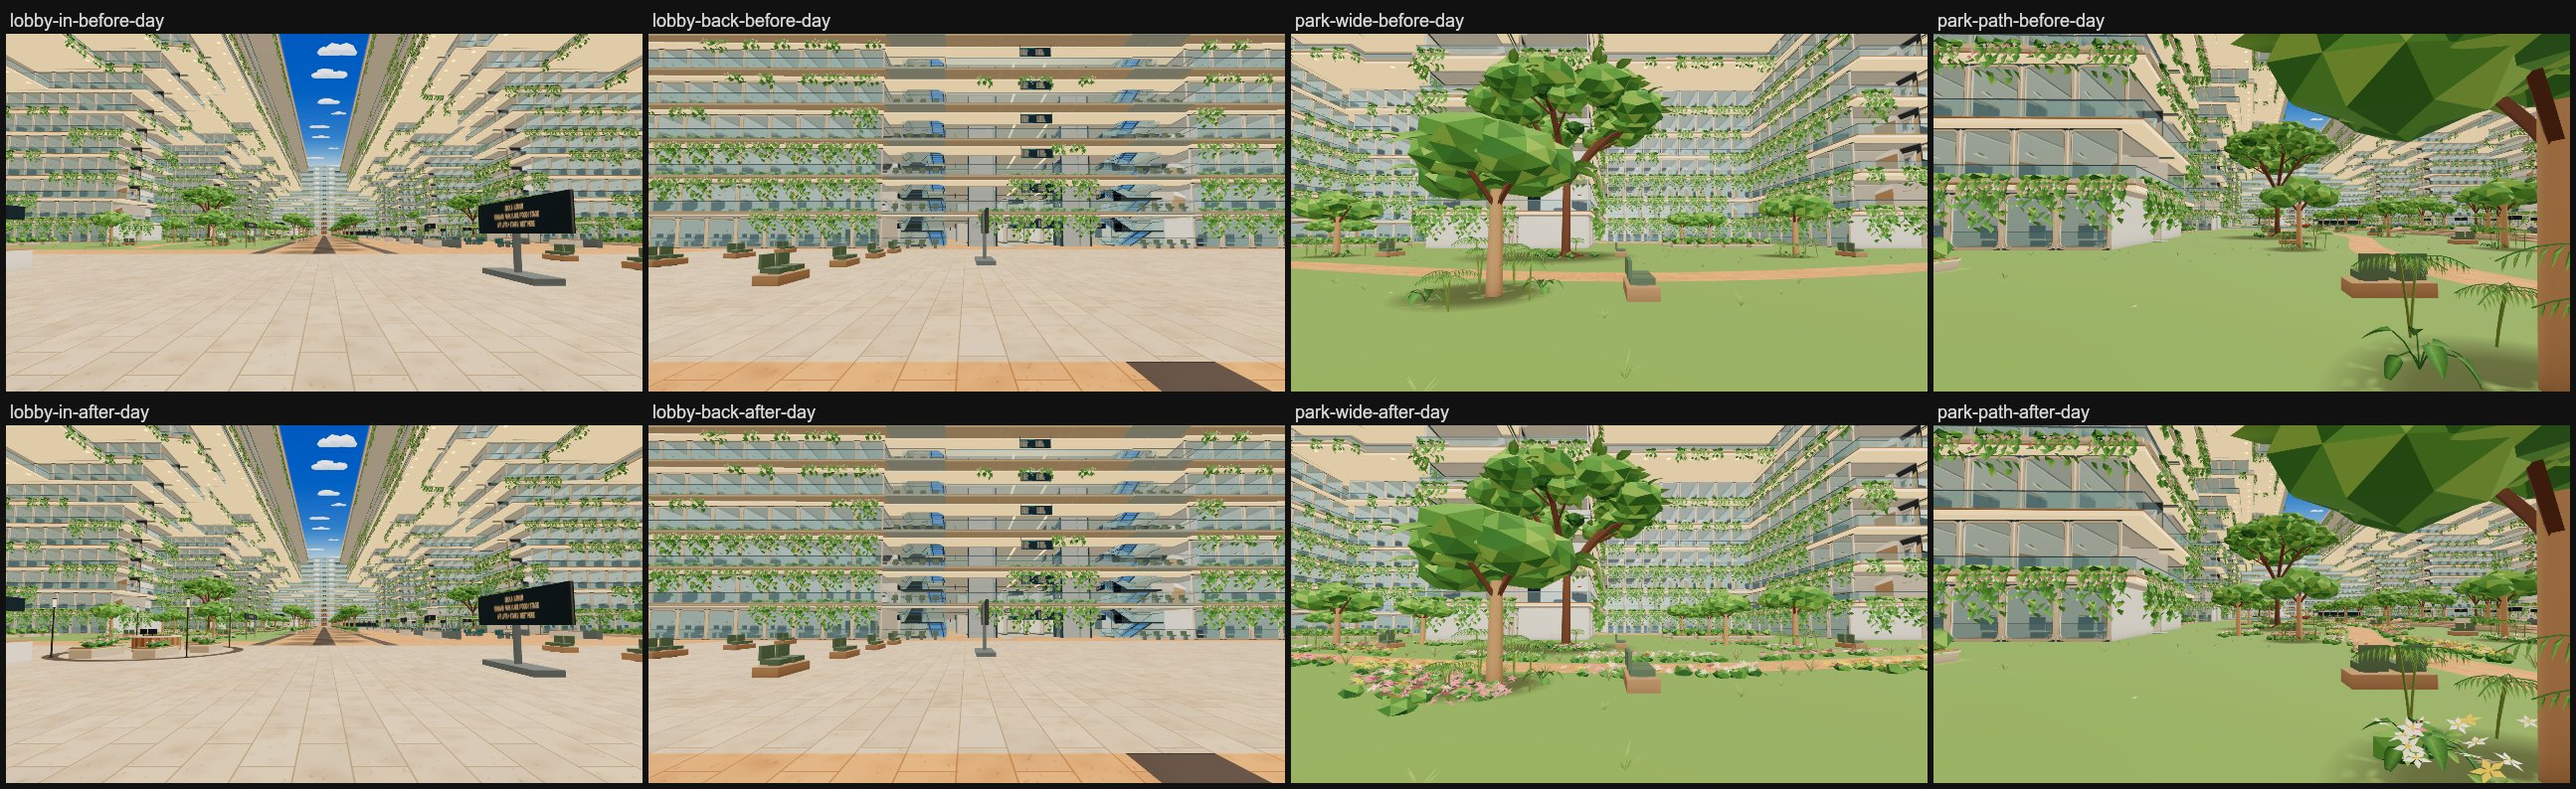
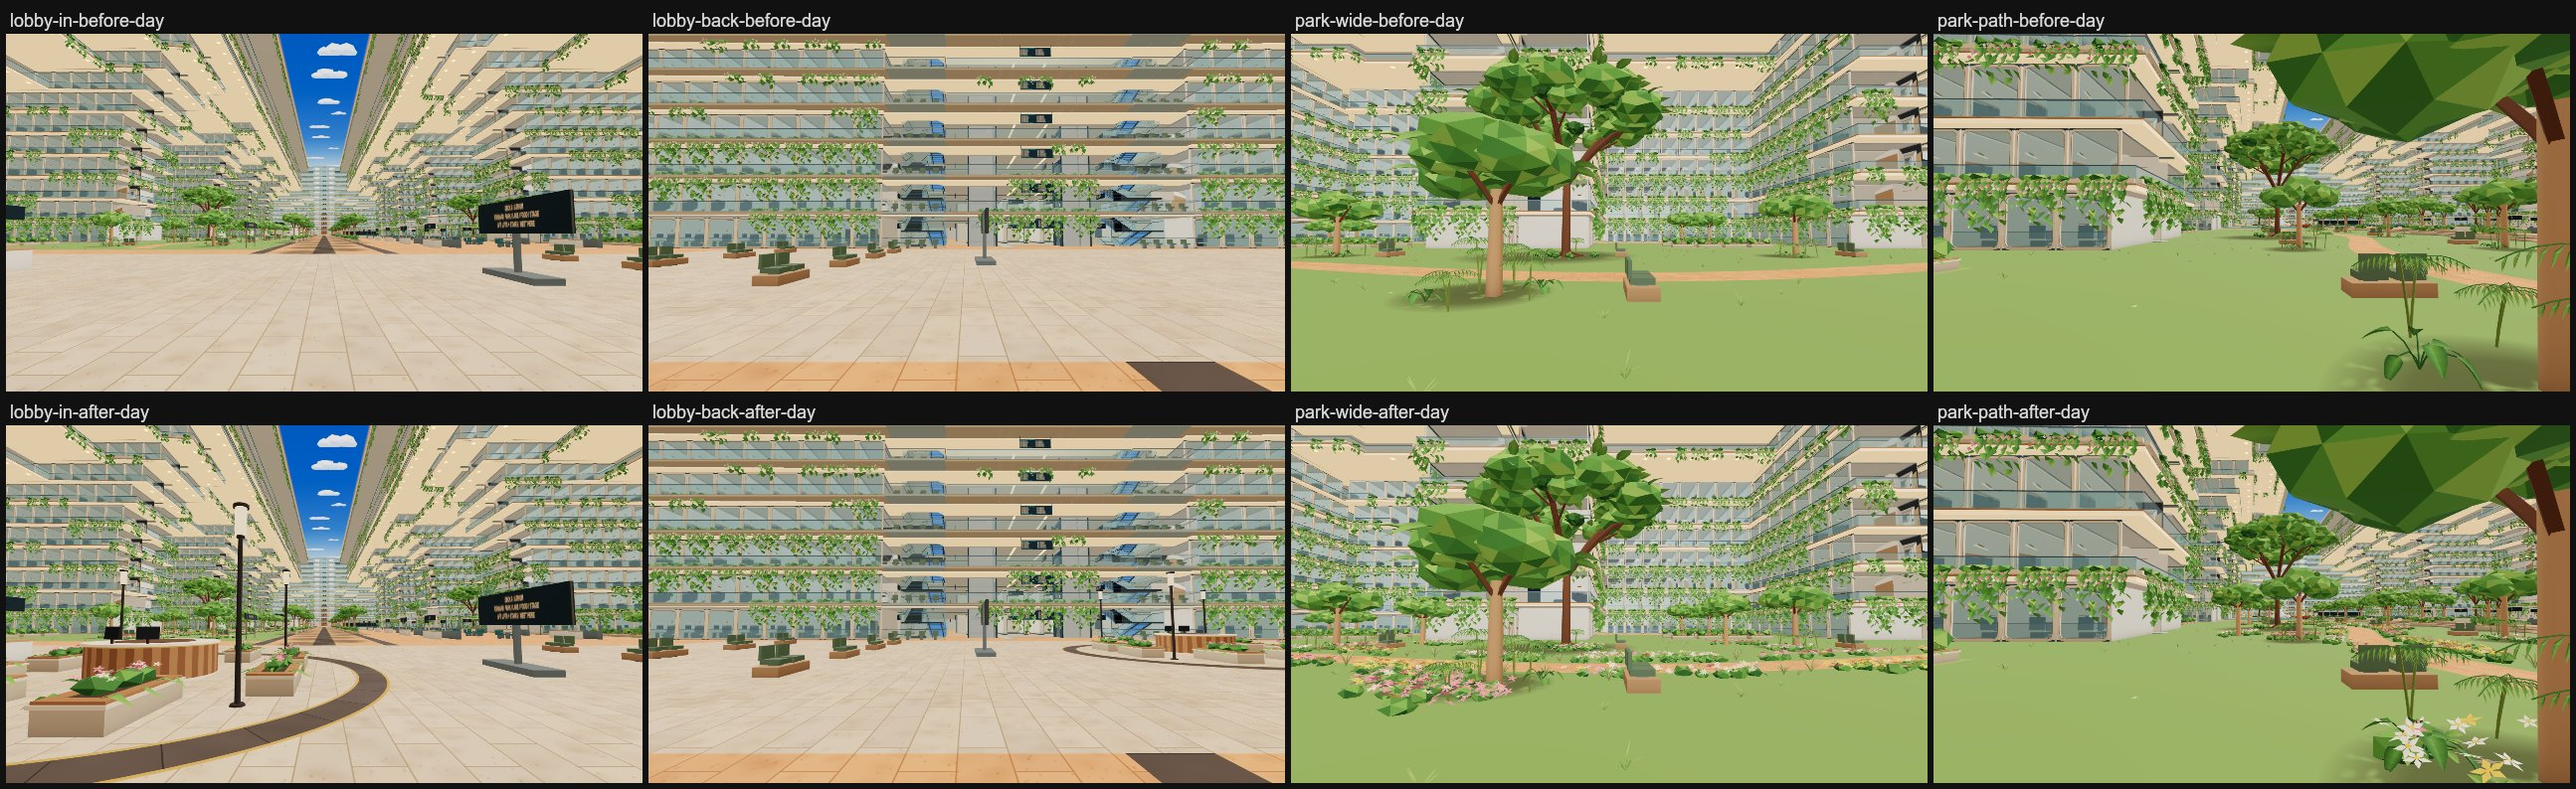
docs(atrium): welcome court refine captures, costs, checks and PVS key
Lobby views re-captured from f201bd87 (court nearer, bigger, focal point):
lobby-in 878 draws (unchanged), 10.50M triangles; lobby-back 490 (+1, the
existing planter batch), 8.09M. All nine area checks PASS on f201bd87.
Atrium PVS key now ....7a47367b508a92a926595c9d000069f9.... (12 new collider
instances: 4 desk boxes, 8 planters; none baked). New sheet: first court
vs refined court at lobby-in.

Changed region(s): [[0.0, 0.7859, 0.1544, 0.9975], [0.4015, 0.7859, 0.4942, 0.8463], [0.0927, 0.6348, 0.1236, 0.665]]

diff --git a/docs/atrium-areas/lobby-park/README.md b/docs/atrium-areas/lobby-park/README.md
@@ -1,14 +1,15 @@
 # G1 Arrival lobby: welcome court (option A) · G2 Voyager park: flower meadow (option A)
 
-**G1:** a low round welcome desk stands on the port side of the arrival plaza. It is warm timber slats under a cream
-stone top, with a thin brass band and two screens facing the lifts. Around it:
+**G1:** a round welcome desk is the arrival plaza's focal point, in the middle ground of the arrival view just port of
+the centre line. It is warm timber slats under a cream stone top, with a thin brass band and two screens facing the
+lifts. Around it:
 
-- a ring of six low stone planters with pink and white flowering shrubs;
-- four slim bronze lamp posts whose lanterns glow;
+- a ring of eight low stone planters with pink and white flowering shrubs;
+- four bronze lamp posts with glowing lanterns;
 - a round basalt inlay edged in brass, like the boulevard's inlays.
 
-The straight walkway from the aft lifts to the boulevard stays clear, and the black directory sign and the reception
-counter stay.
+The walk to the boulevard flows round the court on both sides. The black directory sign and the reception counter
+stay.
 
 **G2:** drifts of soft pink, white and pale yellow flowers run over low leafy mounds:
 
@@ -25,17 +26,18 @@ Two more small trees join two of the grove trees. The open lawn in the middle st
 
 ![all four views at night: before (top) and after (bottom)](contact-night.jpg)
 
-![park-wide: first build (80a6723d) and the refine pass (1e582352)](contact-park-refine.jpg)
+![lobby-in: the first court (1e582352) and Jay's refine (f201bd87)](contact-court-refine.jpg)
+
+![park-wide: first build (80a6723d) and the meadow refine (1e582352)](contact-park-refine.jpg)
 
 *How these were made:*
 - **Before** is a local r187 build (three 0.187.0) of main a7b127ff. atrium-lake-food built it in `leo-floor-before`
   and captured it for all three ground-zone jobs (`C:\Users\victo\Leo\atrium-before-a7b127ff\lobbypark-before-*`).
-- **After** is an r187 build of this branch at 1e582352, built in `leo-build-2`.
-- **Captures:** `scripts/capture-atrium-areas.mjs --only=lobby-in,lobby-back,park-wide,park-path --query=time=day|night`
-  at 1600×900.
+- **After** is from r187 builds of this branch in `leo-build-2`:
+  - the lobby views from f201bd87, the court refine;
+  - the park views from 1e582352, the meadow refine. f201bd87 changes nothing in the park.
+- **Captures:** `scripts/capture-atrium-areas.mjs --query=time=day|night` at 1600×900.
 - **Concepts** were painted over the live captures, so compare layout and colour, not exact distance.
-- **Why the court looks smaller:** it sits farther from the camera than in the concept. The concept has the court
-  almost touching the centre line; here it keeps the walkway clear (see below).
 
 ## What changed
 
@@ -53,17 +55,25 @@ merge easily:
 
 ### G1 welcome court
 
-**Placement.** The court is centred at (−101.4, −10.3), radius 5.21 m to the outer brass line. The walkway is the
-boulevard's 9.8 m clear width (|z| < 4.9) carried back to the lifts, and the directory sign stands at its starboard
-edge. The court's rim stops 0.19 m short of the walkway and 0.3 m from the reception counter's corner. From lobby-in it
-sits about 29° left, as in the concept.
+**Placement (f201bd87, Jay's refine).** At first (d5269e44 to 1e582352) the court sat about 20 m off on the port side,
+radius 5.2 m and rim clear of |z| < 4.9, so from lobby-in it read as a small cluster on the horizon. Jay asked for it
+nearer, bigger and closer to the centre line, with the walk flowing round it.
+
+It is now centred at (−110, −5.5), radius 7.48 m to the outer brass line, about 1.4× the old diameter:
+- From lobby-in it stands 11 m away and 29° to the left, as in concept A.
+- The flat, walkable inlay crosses the centre line by 2 m.
+- **Walking room around it:**
+  - From the planters and lamps to the directory sign: 7.2 m.
+  - From the planters and lamps to the benches beyond: 14 m.
+  - To port: 3 m of open paving before the reception counter.
+- **Clearances to what stays:** the inlay clears the reception counter by 0.46 m and the directory sign by 4.5 m.
 
 | Piece | Details |
 | --- | --- |
-| Desk | Radius 1.32 m drum, 0.98 m high. Cream stone plinth, 40 alternating timber slats, brass band, cream stone top with a leather inset, two screens on the aft side. |
-| Planters | Six of the boulevard's own stone planters (2.4 × 0.42 × 1.1 m), 60° apart on a 3.1 m ring, opening fore and aft. `addPlanterTrims` gives them the same coping, timber bench boards and spilling leaves. They are square to the ship because the trims are laid unrotated. Each holds leafy mounds and 22 pink and white flowers. |
-| Lamps | Four, on the inlay's diagonals at 4.8 m. Bronze base, 2.5 m post, collar and cap. The 0.4 m lantern between collar and cap glows. |
-| Inlay | Basalt band from 4.55 to 5.15 m in 36 slabs, each clouded and set off by a 2 cm joint, between brass lines 6 cm wide. Same stone, brass and clouding as `addPromenadeInlays`, 12 mm over the floor. |
+| Desk | 3.8 m across (radius 1.9 m drum), 1.1 m high. Cream stone plinth, 56 alternating timber slats, brass band, cream stone top with a leather inset, two screens on the aft side. |
+| Planters | Eight of the boulevard's own stone planters (2.4 × 0.42 × 1.1 m), 45° apart on a 4.6 m ring from 22.5°. 2.4 m openings fore and aft, 1.1–1.4 m gaps elsewhere, and a 1.3 m aisle round the desk. `addPlanterTrims` gives them the same coping, timber bench boards and spilling leaves. They are square to the ship because the trims are laid unrotated. Each holds leafy mounds and 22 pink and white flowers. |
+| Lamps | Four, between the planters on the diagonals at 5.3 m. 4.1 m tall: bronze base, 3.4 m post (5–6.5 cm), collar, glowing lantern 0.6 m tall and 0.26 m across, cap. |
+| Inlay | Basalt band from 6.6 to 7.4 m in 36 slabs, each clouded and set off by a 2 cm joint, between brass lines 8 cm wide. Same stone, brass and clouding as `addPromenadeInlays`, 12 mm over the floor. |
 
 ### G2 flower meadow
 
@@ -98,66 +108,70 @@ deeper with shorter gaps, and more grasses stand behind them.
 
 - The planters are `garden_planter` parts with the same size and material as the boulevard and lake planters, so they
   join that instanced batch.
-- The round desk is stood in for by four crossed boxes (2.5 × 0.98 × 1.04 m, 45° apart). Together they fill the drum
+- The round desk is stood in for by four crossed boxes (3.7 × 1.1 × 1.56 m, 45° apart). Together they fill the drum
   to within 0.1 m.
 - Those boxes are a new part, `p6_welcome_desk_collider`, that nothing draws.
 
 **Everything else is visual only (noCollide):** the lamps, the inlay, the planting and the two new park trees. The
 trees have trunks but no collider and no tree-shade decal; the brief asked for visual-only park additions.
 
-**The atrium PVS key changes** by the 10 new collider instances (4 desk boxes and 6 planters):
+**The atrium PVS key changes** by the new collider instances. No atrium PVS is baked for any of these keys, so nothing
+needs rebaking today.
 
-| Build | Atrium PVS key |
-| --- | --- |
-| Before (a7b127ff) | `4.63d7c93282b3f79b647143e90093b6df.aaba3802c109794758a3fffa000069ed.6afd3900849f657047053acc00000001` |
-| After (this branch) | `4.63d7c93282b3f79b647143e90093b6df.ea939c7cb1d180dda21af481000069f7.6afd3900849f657047053acc00000001` |
-
-No atrium PVS is baked for either key, so nothing needs rebaking today. The refine pass added no colliders, so its key
-is the same.
+| Build | Collider instances added | Atrium PVS key |
+| --- | --- | --- |
+| Before (a7b127ff) | none | `4.63d7c93282b3f79b647143e90093b6df.aaba3802c109794758a3fffa000069ed.6afd3900849f657047053acc00000001` |
+| 80a6723d, 1e582352 (first court) | 10: 4 desk boxes, 6 planters | `4.63d7c93282b3f79b647143e90093b6df.ea939c7cb1d180dda21af481000069f7.6afd3900849f657047053acc00000001` |
+| **f201bd87 (refined court, current)** | 12: 4 desk boxes, 8 planters | `4.63d7c93282b3f79b647143e90093b6df.7a47367b508a92a926595c9d000069f9.6afd3900849f657047053acc00000001` |
 
 ## Cost
 
 Draws and triangles come from the walk's `?fps=1` readout (median of 6 readings), measured the same way as the
-before set.
+before set. Lobby rows are from f201bd87, park rows from 1e582352.
 
 | View | Time | Draws before → after | Triangles before → after |
 | --- | --- | --- | --- |
 | lobby-in | day | 878 → 878 | 10.42M → 10.50M |
-| lobby-back | day | 489 → 490 | 8.00M → 8.08M |
+| lobby-back | day | 489 → 490 | 8.00M → 8.09M |
 | park-wide | day | 391 → 391 | 8.59M → 8.67M |
 | park-path | day | 787 → 787 | 10.31M → 10.39M |
 | lobby-in | night | 879 → 879 | 10.42M → 10.50M |
-| lobby-back | night | 489 → 490 | 8.00M → 8.08M |
+| lobby-back | night | 489 → 490 | 8.00M → 8.09M |
 | park-wide | night | 391 → 391 | 8.59M → 8.67M |
 | park-path | night | 788 → 788 | 10.31M → 10.39M |
 
 - **No new draw call.** Everything drawn joins the existing garden mesh and lantern draw. The hidden desk boxes are
   never drawn.
 - **lobby-back +1 draw:** it is the existing `garden_planter` batch. Before, none of its instances were in that view
-  (the boulevard and lake planters are behind the camera). Now a court planter's bounds reach the right edge of the
-  frame, so the batch draws there.
-- **Garden mesh (`P6_atrium_gardens`):** 333,524 → 412,738 triangles in a Node build (+79,214): the court ~5k, the
-  meadow ~74k. The walk counts 412,642 at every view.
-- **Lantern draw:** 1,632 → 1,792 triangles (+160, the four lanterns).
+  (the boulevard and lake planters are behind the camera). Now the court's planters are in view, so the batch draws
+  there.
+- **Garden mesh (`P6_atrium_gardens`):** 333,524 → 414,294 triangles in a Node build (+80,770): the court ~7.5k with
+  its planters' trims, the meadow ~73k. The walk counts 414,198 at the lobby views.
+- **Lantern draw:** 1,632 → 1,824 triangles (+192, the four lanterns).
 - **Distant and phone copies:** the garden mesh's distant copy keeps its Basic material swap, and phones drop distant
   decor as before. Both apply automatically because nothing new has its own mesh.
+- **Measure on an idle machine.** A first capture of f201bd87, taken while `check:walk` started on the same machine,
+  showed 840 draws at lobby-in, with the far end of the atrium still streaming into haze. Re-captured idle, it reads
+  878 as above, and the far tower is back.
 
 ## Checks
 
 All run in `leo-build-2` on the r187 build of each commit.
 
-| Check | 80a6723d (first build) | 1e582352 (refine) |
-| --- | --- | --- |
-| `npm run check:walk` | PASS | PASS |
-| `node scripts/check-phase6-v2.mjs` (incl. phase6-sanity's 2.4 m perimeter rule and phase6-prepared's hidden-source rule) | PASS | PASS |
-| `node scripts/check-prepared-runtime-migration.mjs` | PASS | PASS |
-| `npm run check:atrium-time` | PASS (12 checks) | PASS (12 checks) |
-| `node scripts/check-atrium-void-fixtures-v2.mjs` | PASS | PASS |
-| `node scripts/check-prepared-walk-v2.mjs` | PASS | PASS |
-| `node scripts/check-void-guards-v2.mjs` | PASS | PASS |
-| `node scripts/check-lobby-tile-v2.mjs` | PASS | PASS |
-| `node scripts/check-main-features-v2.mjs` | PASS | PASS |
+| Check | 80a6723d (first build) | 1e582352 (meadow refine) | f201bd87 (court refine) |
+| --- | --- | --- | --- |
+| `npm run check:walk` | PASS | PASS | PASS |
+| `node scripts/check-phase6-v2.mjs` (incl. phase6-sanity's 2.4 m perimeter rule and phase6-prepared's hidden-source rule) | PASS | PASS | PASS |
+| `node scripts/check-prepared-runtime-migration.mjs` | PASS | PASS | PASS |
+| `npm run check:atrium-time` | PASS (12 checks) | PASS (12 checks) | PASS (12 checks) |
+| `node scripts/check-atrium-void-fixtures-v2.mjs` | PASS | PASS | PASS |
+| `node scripts/check-prepared-walk-v2.mjs` | PASS | PASS | PASS |
+| `node scripts/check-void-guards-v2.mjs` | PASS | PASS | PASS |
+| `node scripts/check-lobby-tile-v2.mjs` | PASS | PASS | PASS |
+| `node scripts/check-main-features-v2.mjs` | PASS | PASS | PASS |
 
+- `check:walk` floods the ship as a walker: every room's floor, every lift landing and every seat must be reached.
+  It passes with the walk flowing round the court.
 - No source re-pinning was needed: none of the required checks complained about the switchover pins.
 - `scripts/check-source-fold.mjs` (not on this job's list) already fails on main a7b127ff, at `server/live-core.mjs`,
   unrelated to this change.
@@ -165,5 +179,7 @@ All run in `leo-build-2` on the r187 build of each commit.
 **Every area job keeps:**
 - Nothing is added above Deck 16, and no opaque `noCollide` surface crosses the void: everything here sits on the
   Deck 6 floor.
-- The boulevard's 9.8 m clear width, the x=−79 cross route and the walkway to the lifts stay clear.
+- The walk from the aft lifts to the boulevard is clear on both sides of the court, and the boulevard's 9.8 m clear
+  width begins forward of it.
+- The x=−79 cross route stays clear.
 - The x=2 cross route and the stall gaps are outside these zones.
